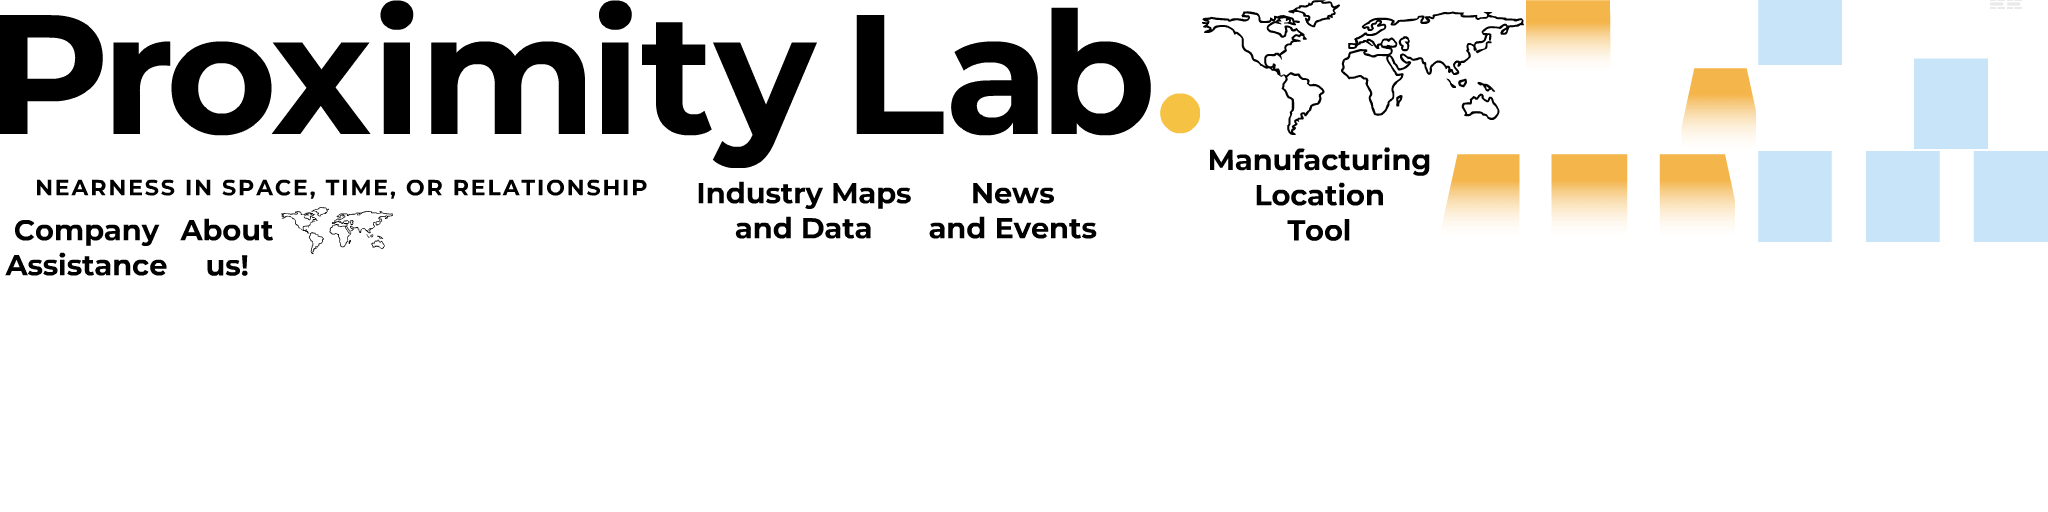
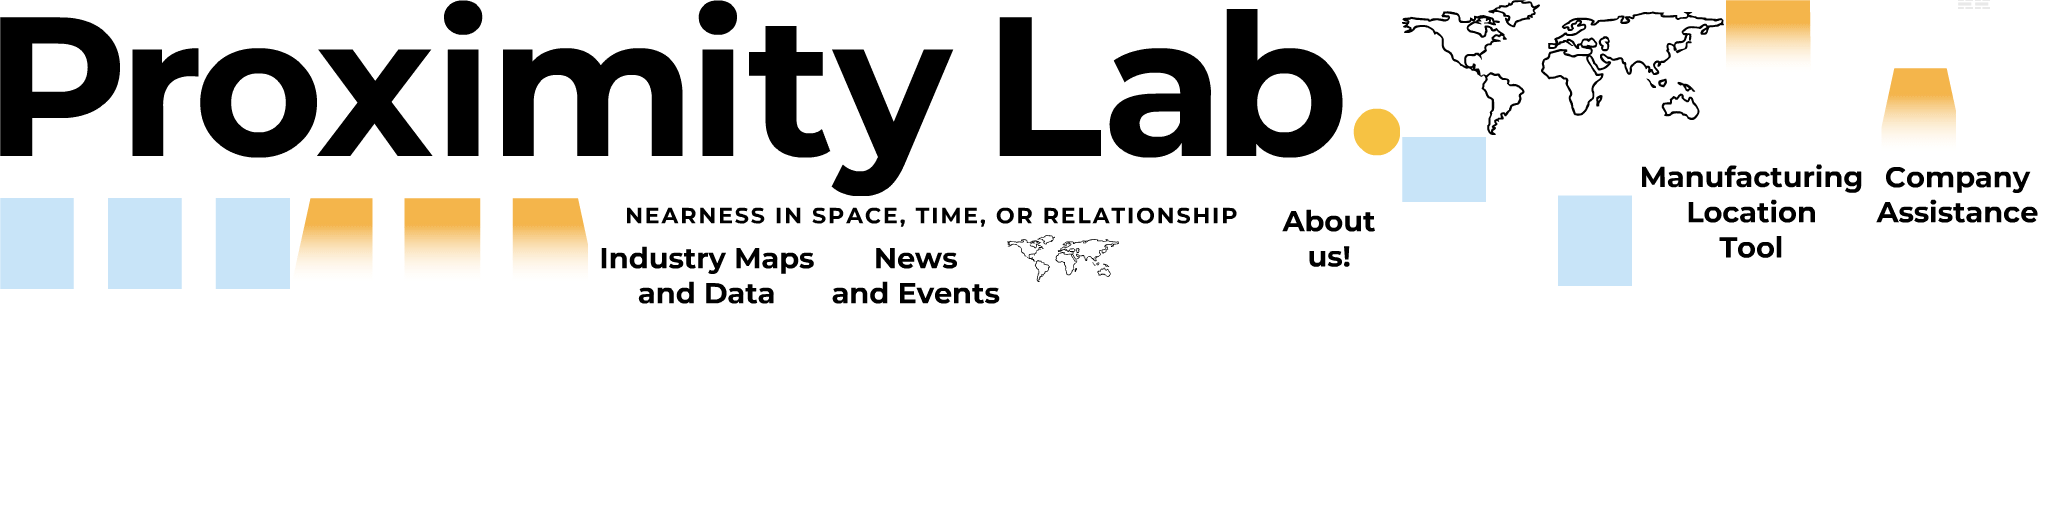
Made changes as per Daiana's comments on Animation and checboxes

Changed region(s): [[0.0, 0.0, 1.0, 0.5938], [0.4062, 0.5625, 0.5, 0.5938]]

diff --git a/css/main.css b/css/main.css
@@ -1549,9 +1549,9 @@ input::-moz-focus-inner {
 }
 
 @media only screen and (max-width: 800px) {
-  .s-clients {
-    /* padding-bottom: 17.4rem; */
-  }
+  /*.s-clients {
+    /* padding-bottom: 17.4rem; 
+  }*/
   .section-header.has-bottom-sep::before {
     width: 400px;
   }
@@ -1569,8 +1569,11 @@ input::-moz-focus-inner {
   }
   .btngrouping{
     display: grid !important;
-    grid-template-columns: 25% 75%;
-    margin-left:0;
+    grid-template-columns: 20% 80%;
+    margin-left:0 !important;
+  }
+  .contact-Us{
+    margin-left: 3% !important
   }
   .business-btns label{
     margin-left:25px !important;
@@ -2735,9 +2738,9 @@ html.no-csstransitions .home-content__main {
 }
 
 @media only screen and (max-width: 600px) {
-  .s-services {
-    /* padding-top:12rem; */
-  }
+  /*.s-services {
+     padding-top:12rem; 
+  }*/
   .services-list .service-item:nth-child(n) {
     padding-right: 10px;
     padding-left: 10px;
@@ -2789,10 +2792,10 @@ html.no-csstransitions .home-content__main {
   clear: both;
 }
 
-.masonry .grid-sizer,
+/* .masonry .grid-sizer,
 .masonry__brick {
-  /* width: 50%; */
-}
+  /* width: 50%; 
+} */
 /* 
 .masonry__brick {
     float: left;
@@ -3141,15 +3144,15 @@ html.no-csstransitions .home-content__main {
     text-align: center;
   }
 }
-
+/* 
 .form__child__element__text2,
 .form__child__element__text3 {
   /* text-align:left !important;  */
   /* font-size: 2.2rem; */
   /* padding-top: 0;
     margin-top: 0 !important;
+} 
 } */
-}
 .form__child__element__text2 h2 {
   width: 100%;
   /* margin-top: 7.4%;  */

diff --git a/js/Home animation.js b/js/Home animation.js
@@ -4,7 +4,26 @@
   var ss = {};
   var img = {};
   lib.ssMetadata = [
-    {name:"Home animation_atlas_1", frames: [[923,170,179,81],[1439,154,296,84],[1526,0,230,152],[1758,151,290,91],[1758,0,230,149],[1202,137,235,116],[1202,0,322,135],[687,170,234,81],[281,207,112,47],[0,207,173,81],[175,207,104,81],[0,170,685,35],[0,0,1200,168],[1990,0,15,9],[2007,0,15,9]]},
+    {
+      name: "Home animation_atlas_1",
+      frames: [
+        [826, 235, 179, 81],
+        [292, 198, 296, 84],
+        [1726, 0, 230, 152],
+        [0, 198, 290, 91],
+        [1402, 137, 230, 149],
+        [1634, 154, 235, 116],
+        [1402, 0, 322, 135],
+        [590, 235, 234, 81],
+        [1007, 235, 112, 47],
+        [1871, 154, 173, 81],
+        [1277, 198, 104, 81],
+        [590, 198, 685, 35],
+        [0, 0, 1400, 196],
+        [1958, 0, 15, 9],
+        [1975, 0, 15, 9],
+      ],
+    },
   ];
 
   (lib.AnMovieClip = function () {
